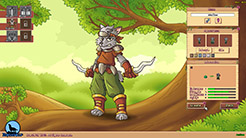
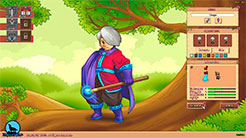
ultima version de la landing page

diff --git a/src/components/ClassSection.vue b/src/components/ClassSection.vue
@@ -15,16 +15,16 @@ export default {
 	data(){
 		return {
 			buttons: [
-				{ id:1, classname:'Mage', targetId: 0,img:'12.png',imgactive:'12_c.png',active:true },
-				{ id:2, classname:'Stalker', targetId: 1,img:'13.png',imgactive:'13_c.png', active:false },
-				{ id:3, classname:'Hunter', targetId: 2,img:'15.png',imgactive:'15_c.png', active:false },
-				{ id:4, classname:'Knight', targetId: 3,img:'17.png',imgactive:'17_c.png', active:false },
+				{ id:1, classname:'Mage', targetId: 0,img:'12.png',shadowBoxColor:'#00eaff',imgactive:'12_c.png',active:true },
+				{ id:2, classname:'Stalker', targetId: 1,img:'13.png',shadowBoxColor:'#709f34',imgactive:'13_c.png', active:false },
+				{ id:3, classname:'Hunter', targetId: 2,img:'15.png',shadowBoxColor:'#921f80',imgactive:'15_c.png', active:false },
+				{ id:4, classname:'Knight', targetId: 3,img:'17.png',shadowBoxColor:'#bd3232',imgactive:'17_c.png', active:false },
 			],
 			contents:[
-				{ id:1, idbutton:0, classname: 'Mage', videoclass:'mago/magonew.mp4', imgclass:'Mago.png', classdesc: 'The Mage base his power on the elements and is able to canalize them in order to increase their secondary effects. He can attack from a short distance, nevertheless each hit deals a lot of damage.', active:true },
-				{ id:2, idbutton:1, classname: 'Stalker', videoclass:'acechador/acechadornew.mp4', imgclass:'stalker_image.png',classdesc: 'The Stalker is an shadow assassin, he uses his basic attacks to poison enemies and then fulminate them with his daggers. Also, he has the support of his “Battle Masters”, who grant an additional effect on each hit.', active:false },
-				{ id:3, idbutton:2, classname: 'Hunter', videoclass:'cazador/cazadornew.mp4', imgclass:'Cazador.png', classdesc: 'The Hunter focuses his damage on long distance shots, is faster in comparisson to the other clases and can detect enemies even if they are behind him. He carry a quiver where he stores arrows some handy stuff as bombs and traps.', active:false },
-				{ id:4, idbutton:3, classname: 'Knight', videoclass:'caballero/caballeronew.mp4', imgclass:'knight_image.png', classdesc: 'The Knight uses light and darkness in his favor, is able to create attack combinations at will, making each combination deal a different effect on the opponent, also most of his attacks are melee.', active:false }
+				{ id:1, idbutton:0, classname: 'Mage', videoclass:'mago/magonew.mp4', imgclass:'Mago.png',imgAttrClass:"Mage",imgAttrStyle:{ transform:"scale(1.5)" }, classdesc: 'The Mage base his power on the elements and is able to canalize them in order to increase their secondary effects. He can attack from a short distance, nevertheless each hit deals a lot of damage.', active:true },
+				{ id:2, idbutton:1, classname: 'Stalker', videoclass:'acechador/acechadornew.mp4',imgAttrClass:"Stalker",imgAttrStyle:{ transform:"scale(1.5)" }, imgclass:'stalker_image.png',classdesc: 'The Stalker is an shadow assassin, he uses his basic attacks to poison enemies and then fulminate them with his daggers. Also, he has the support of his “Battle Masters”, who grant an additional effect on each hit.', active:false },
+				{ id:3, idbutton:2, classname: 'Hunter', videoclass:'cazador/cazadornew.mp4', imgclass:'Cazador.png',imgAttrClass:"Hunter", classdesc: 'The Hunter focuses his damage on long distance shots, is faster in comparisson to the other clases and can detect enemies even if they are behind him. He carry a quiver where he stores arrows some handy stuff as bombs and traps.', active:false },
+				{ id:4, idbutton:3, classname: 'Knight', videoclass:'caballero/caballeronew.mp4', imgclass:'knight_image.png',imgAttrClass:"Knight", classdesc: 'The Knight uses light and darkness in his favor, is able to create attack combinations at will, making each combination deal a different effect on the opponent, also most of his attacks are melee.', active:false }
 			],
 			currentSelected : 0
 		}

diff --git a/src/components/ScreenSection.vue b/src/components/ScreenSection.vue
@@ -1,44 +1,55 @@
 <template>
     <section class="container container-custom">
-		<div class="row my-3">
-
-			<div class="col-sm-3 text-center"><img src="../assets/thumbgallery-1.jpg" class="img-fluid thumbnail" @click="openGallery(0)" /></div>
-			<div class="col-sm-3 text-center"><img src="../assets/thumbgallery-2.jpg" class="img-fluid thumbnail" @click="openGallery(1)" /></div>
-			<div class="col-sm-3 text-center"><img src="../assets/thumbgallery-3.jpg" class="img-fluid thumbnail" @click="openGallery(2)" /></div>
-			<div class="col-sm-3 text-center"><img src="../assets/thumbgallery-4.jpg" class="img-fluid thumbnail" @click="openGallery(3)" /></div>
-			
-		</div>
+		<VueSlickCarousel :arrows="false" :dots="false" :autoplay="true" :slidesPerRow="1" :slidesToScroll="1" :slidesToShow="4" :responsive="respScreen" >
+			<div class="text-center" ><img src="../assets/thumbgallery-1.jpg" class="mx-auto img-fluid thumbnail" @click="openGallery(0)"  /></div>
+			<div class="text-center" ><img src="../assets/thumbgallery-2-2.jpg" class="mx-auto img-fluid thumbnail" @click="openGallery(1)"  /></div>
+			<div class="text-center" ><img src="../assets/thumbgallery-3.jpg" class="mx-auto img-fluid thumbnail" @click="openGallery(2)"  /></div>
+			<div class="text-center" ><img src="../assets/thumbgallery-4-4.jpg" class="mx-auto img-fluid thumbnail" @click="openGallery(3)"  /></div>
+		</VueSlickCarousel>
 		<LightBox ref="lightbox" :show-light-box="false" :media="media"></LightBox>
 	</section>
 </template>
 
 <script>
 import LightBox from 'vue-it-bigger'
+import VueSlickCarousel from 'vue-slick-carousel'
+import 'vue-slick-carousel/dist/vue-slick-carousel.css'
+import 'vue-slick-carousel/dist/vue-slick-carousel-theme.css'
+/**IMAGES */
+import imgSlider1 from '../assets/Mounts_System.jpg'
+import imgSlider2 from '../assets/DarkStory0.jpg'
+import imgSlider3 from '../assets/DarkStoryEdited1.jpg'
 import('vue-it-bigger/dist/vue-it-bigger.min.css')
 
 export default {
 	components:{
-		LightBox
+		LightBox,VueSlickCarousel
 	},	
 	data(){
 		return {
 			media: [
-				{
-					thumb: 'https://darkstory2d.com/assets/images/gallery/gallery-1.jpg',
-					src: 'https://darkstory2d.com/assets/images/gallery/gallery-1.jpg'
-				},
-				{
-					thumb: 'https://darkstory2d.com/assets/images/gallery/gallery-2.jpg',
-					src: 'https://darkstory2d.com/assets/images/gallery/gallery-2.jpg'
-				},
+				{ thumb: imgSlider1, src: imgSlider1 },
+				{ thumb: imgSlider2, src: imgSlider2 },
 				{
 					thumb: 'https://darkstory2d.com/assets/images/gallery/gallery-3.jpg',
 					src: 'https://darkstory2d.com/assets/images/gallery/gallery-3.jpg'
 				},
+				{ thumb: imgSlider3, src: imgSlider3 }
+			],
+			respScreen:[
 				{
-					thumb: 'https://darkstory2d.com/assets/images/gallery/gallery-4.jpg',
-					src: 'https://darkstory2d.com/assets/images/gallery/gallery-4.jpg'
+					"breakpoint":1024,
+					"settings":{
+						"slidesToShow": 3,
+					}
+				},
+				{
+					"breakpoint": 480,
+					"settings": {
+						"slidesToShow": 2,
+					}
 				}
+				
 			]
 		}
 	},

diff --git a/src/components/Main.vue b/src/components/Main.vue
@@ -1,15 +1,17 @@
 <template>
     <main class="container container-custom">
 		<div class="row backgroundmain">
-			<div class="col-lg-8 col-md-8 col-sm-8">
-				<img src="../assets/Viejologo.png" style="width: 46%; max-width: 290px;" />
+			<div class="col-lg-7 col-md-6 col-sm-12 respDiv3">
+				<img class="respImg1" src="../assets/Viejologo.png" style="width: 46%; max-width: 290px;" />
 			</div>
-			<div class="col-lg-4 col-md-4 col-sm-4 pt-5">
-				<h1 class="mb-3">An authentic 2D MMORPG inspired by classic RPGs</h1>
-				<h2 class="mb-3">Free to play</h2>
-				<p class="mb-5">With hundreds hours of gameplay and inspired by the retro style of the classic RPGs, you will be immerse yourself in this epic role experience where you can conquer dungeons, fly in the sky with a giant hawk, fight against amazing creatures, explore the vast continents with your friends and so much more.</p>
-				<a type="button" href="https://darkstory2d.com/download.php" target="__blank" class="btn myButton">Play Now</a>
-				<a href="https://store.steampowered.com/app/1020780/DarkStory_Online/"><img class="img-fluid" style="width:100%; max-width:250px;" src="../assets/Steam_Button.png" alt="DarkStory Steam"/></a>
+			<div class="col-lg-5 col-md-6 col-sm-12 pt-md-5">
+				<h1 class="mb-3 respText1">An authentic 2D MMORPG inspired by classic RPGs</h1>
+				<h3 class="mb-3 respText2">Bring the past back to life and live a new story in DarkStory</h3>
+				<p class="mb-md-5 respText3">With hundreds hours of gameplay you will be immerse yourself in this epic role experience where you can conquer dungeons, fly in the sky with a giant hawk, fight against amazing creatures, explore the vast continents with your friends and so much more.</p>
+				<div class="text-center">
+					<a type="button" href="https://darkstory2d.com/download.php" target="__blank" class="btn myButton">Play Now</a>
+					<a href="https://store.steampowered.com/app/1020780/DarkStory_Online/"><img class="img-fluid" style="width:100%; max-width:250px;" src="../assets/Steam_Button.png" alt="DarkStory Steam"/></a>
+				</div>
 				<!--<iframe src="https://store.steampowered.com/widget/1020780/" frameborder="0" width="646" height="190"></iframe>-->
 			</div>
 		</div>

diff --git a/src/App.vue b/src/App.vue
@@ -28,10 +28,10 @@
         </carousel-3d>
       </div>
       <div class="text-center" style="position:relative; top:-20px;" >
-        <a href="https://darkstory2d.com/download.php" target="__blank" class="btn myButtonT2">Play Now</a>
+        <a href="https://darkstory2d.com/download.php" target="__blank" class="btn myButtonT2">PLAY FREE NOW</a>
       </div>
       <div class="p-2"></div>
-      <h2 class="text-center">Join our community</h2>
+      <h2 class="text-center position-relative" style="z-index:20;"><span style="background: #d8cab8a6;">Join our community</span></h2>
       <div class="p-4"></div>
       <div class="row justify-content-center">
         <div class="col-sm-3 text-center">
@@ -54,7 +54,6 @@ import MainSection from './components/Main.vue'
 import ScreenSection from './components/ScreenSection.vue'
 import ClassSection from './components/ClassSection.vue'
 import { Carousel3d, Slide } from 'vue-carousel-3d';
-
 export default {
   name: 'App',
   components: {
@@ -172,5 +171,35 @@ main { margin-top: 57px; }
   .myButton:active {
     position:relative;
     top:1px;
+  }
+  .vertical-center { margin-top: auto; margin-bottom: auto;}
+  .img-fluid{ width:100%; }
+  /* @media (min-width: 768px){
+    .navbar-expand-lg .navbar-collapse {
+        display: -ms-flexbox!important;
+        display: flex!important;
+        -ms-flex-preferred-size: auto;
+        flex-basis: auto;
+    }
+  } */
+  @media screen and (max-width: 768px) {
+    .respDiv1{ display:none; }
+    .respVideo1{ width:100%!important; }
+  }
+  @media screen and (max-width:765px){
+    .respDiv3{  text-align: center; }
+    .respImg1{ width:20%; }
+    .respText1{ font-size: xx-large; font-weight: bold; background: #d197748a; }
+    .respText2{ background: #d1977494; }
+    .respText3{ background: #d19774c9; font-weight: 700; }
+  }
+  @media screen and (max-width:575px){
+    .respDiv2 { display:none; }
+  }
+  @media screen and (max-width:450px){
+    .respText1{ font-size: x-large; }
+    .respText2{ font-size:large; font-weight: bold; }
+
+    .respText3{ overflow: auto; height: 100px; }
   }
 </style>

diff --git a/src/components/ClassContent.vue b/src/components/ClassContent.vue
@@ -1,22 +1,22 @@
 <template>
     
     <div class="row mb-3 row-cont-1" v-if="item.active">
-        <div style="position: absolute; width: 63%; height: 100%;">
+        <div class="respVideo1" style="position: absolute; width: 63%; height: 100%;">
             <video-background  :src="require(`../assets/videos/${item.videoclass}`)" style="max-height: 100%; height: 100vh;" ></video-background>
         </div>
-        <div class="col-sm-6" style="position:relative;">
+        <div class="col-lg-6 col-md-5 respDiv1" style="position:relative;">
             <!-- src="https://avidofood.github.io/vue-responsive-video-background-player/demo/public/videos/roadster-loop-imperial.mp4" -->             
         </div>
-        <div class="col-sm-6" style="position:relative;">
+        <div class="col-lg-6 col-md-7 col-sm-12" style="position:relative;">
             <div class="row h-100">
-                <div class="col-6">
+                <div class="col-lg-5 col-md-4 col-6 respDiv2">
                     <div class="vivify animationObject driveInLeft" style="height:400px; width:300px;">
                         <div style="height:400px; width:300px; position: absolute; bottom: 0;">
-                            <img :src="require(`../assets/pj/${item.imgclass}`)" class="img-fluid pjclass" />
+                            <img ref="imgclass" :src="require(`../assets/pj/${item.imgclass}`)" class="img-fluid pjclass" v-bind:class="[item.imgAttrClass]" v-bind:style="item.imgAttrStyle" />
                         </div>
                     </div>
                 </div>
-                <div class="col-6 pt-3">
+                <div class="col-lg-7 col-md-8 col-sm-6 pt-3 vertical-center">
                     <h1 class="titleClassContent1">{{item.classname}}</h1>
                     <h4 class="titleClassContent2">{{item.classdesc}}</h4>
                     <div class="text-center">
@@ -34,8 +34,11 @@ export default {
     components:{
         videoBackground
     },
+    methods:{
+        
+    },
     data(){
         return {};
-    }
+    },
 }
 </script>

diff --git a/src/components/NavBar.vue b/src/components/NavBar.vue
@@ -1,13 +1,13 @@
 <template>
-<nav class="navbar navbar-expand-lg navbar-dark bg-dark fixed-top">
+<nav class="navbar navbar-expand-sm navbar-dark bg-dark fixed-top">
     <div class="container">
         <!-- <a class="navbar-brand" href="#"><img src="../assets/nav_logo.png" /></a> -->
-        <button class="navbar-toggler" type="button" data-toggle="collapse" data-target="#navbarNav" aria-controls="navbarNav" aria-expanded="false" aria-label="Toggle navigation">
+        <button class="navbar-toggler" v-on:click="toggle()" type="button" data-toggle="collapse" data-target="#navbarNav" aria-controls="navbarNav" aria-expanded="false" aria-label="Toggle navigation">
             <span class="navbar-toggler-icon"></span>
         </button>
-        <div class="collapse navbar-collapse row justify-content-between" id="navbarNav">
+        <div ref="menuMobile" class="vivify animationObject driveInLeft collapse navbar-collapse row justify-content-between" id="navbarNav">
 
-            <div class="col-sm-8">
+            <div class="col-lg-8 col-sm-6">
                 <ul class="navbar-nav">
                     <li class="nav-item active">
                         <a class="nav-link" href="#home" v-smooth-scroll="{ duration: 2000, offset: -50 }">Home <span class="sr-only">(current)</span></a>
@@ -48,3 +48,16 @@
     </div>
 </nav>
 </template>
+
+<script>
+export default {
+    methods:{
+        toggle(){
+            this.$refs.menuMobile.classList.toggle('collapse')
+        }
+    },
+    created(){
+        
+    }
+}
+</script>

diff --git a/src/components/ClassButtons.vue b/src/components/ClassButtons.vue
@@ -1,9 +1,9 @@
 <template>
     <div class="col-auto">
-        <div v-bind:class="{'text-center navclass-item':true, 'active':item.active}" style="background:#d8cab8; border-radius: 0.4em;" @click="activeClass">
-            <div style="height: 100px; width: 140px; background: rgb(60, 39, 20); margin: 0px auto; border-radius: 0.4em;">
+        <div v-bind:class="{'text-center navclass-item':true, 'active':item.active}" style="background:#d8cab8; border-radius: 0.4em;" v-bind:style="[this.item.active == true ? customStyle: null]" @click="activeClass">
+            <div style="height: 100px; width: 110px; background: rgb(60, 39, 20); margin: 0px auto; border-radius: 0.4em;">
                 <!-- <img src="../assets/emblemas/12_c.png" style="width:67%;" /> -->
-                <img :src="require(`../assets/emblemas/${item.active==false ? item.img : item.imgactive}`)" style="width:67%;" />
+                <img :src="require(`../assets/emblemas/${item.active==false ? item.img : item.imgactive}`)" style="width:100%; max-width:100px" />
             </div>
             <h4>{{item.classname}}</h4>
         </div>
@@ -15,6 +15,9 @@ export default {
     props:['item','index'],
     data(){
         return {
+            customStyle:{
+                'box-shadow': String.prototype.concat("0px 10px 12px 0px ",this.item.shadowBoxColor)
+            },
             isActive: false
         }
     },
